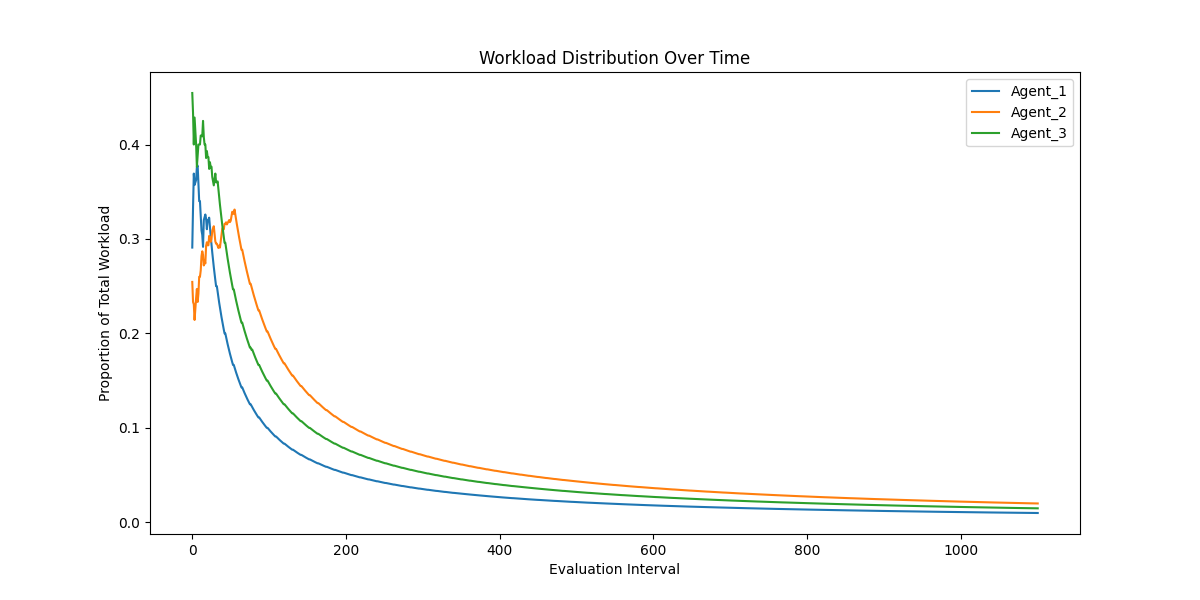
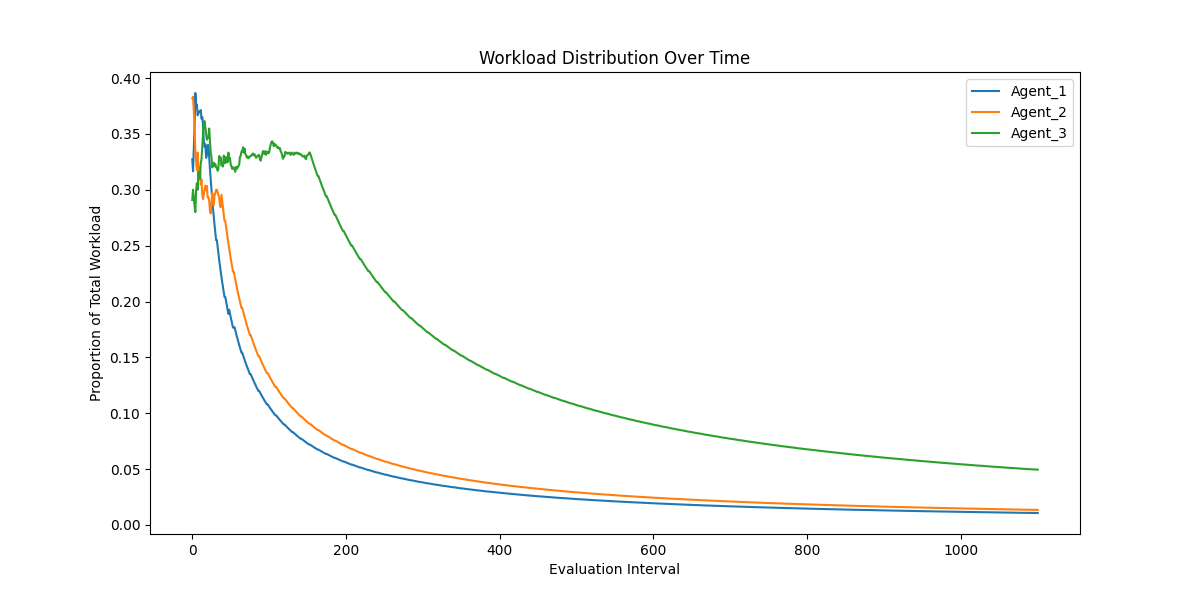
Backengine code update

diff --git a/collaborative_intelligence.py b/collaborative_intelligence.py
@@ -29,11 +29,12 @@ class Agent:
             "regression": 1,
             "clustering": 1
         }
-        self.mentor = None
-        self.mentee = None
+        self.mentors = []
+        self.mentees = []
         self.mentoring_impact = defaultdict(list)  # Track impact of mentoring
         self.ramp_up_boost = 1.0  # Temporary boost for new agents
         self.utilization_score = 1.0  # New attribute to track agent utilization
+        self.performance_trend = []  # Track agent's performance over time
 
     async def process_task(self, task: Task) -> Tuple[str, float]:
         processing_time = task.complexity * (1 / (self.reputation * self.ramp_up_boost)) * (1 / self.expertise_level[task.domain])
@@ -106,10 +107,10 @@ class Agent:
     def increase_expertise(self, domain: str):
         old_expertise = self.expertise_level[domain]
         self.expertise_level[domain] = min(10, self.expertise_level[domain] + 0.1)
-        if self.mentee:
-            mentee_old_expertise = self.mentee.expertise_level[domain]
-            mentee_expertise_gain = max(0, min(self.mentee.expertise_level[domain] + 0.05, self.expertise_level[domain]) - mentee_old_expertise)
-            self.mentee.expertise_level[domain] += mentee_expertise_gain
+        for mentee in self.mentees:
+            mentee_old_expertise = mentee.expertise_level[domain]
+            mentee_expertise_gain = max(0, min(mentee.expertise_level[domain] + 0.1, self.expertise_level[domain]) - mentee_old_expertise)
+            mentee.expertise_level[domain] += mentee_expertise_gain
             self.mentoring_impact[domain].append(mentee_expertise_gain)
         return self.expertise_level[domain] - old_expertise
 
@@ -120,6 +121,11 @@ class Agent:
         expected_tasks = total_tasks / len(self.performance_by_task_type)
         actual_tasks = self.total_tasks_processed
         self.utilization_score = min(2.0, max(0.5, actual_tasks / expected_tasks))
+
+    def update_performance_trend(self, performance: float):
+        self.performance_trend.append(performance)
+        if len(self.performance_trend) > 10:
+            self.performance_trend.pop(0)
 
 class MultiAgentSystem:
     def __init__(self, agents: List[Agent]):
@@ -135,6 +141,7 @@ class MultiAgentSystem:
         self.remove_agent_threshold = 0.4
         self.domain_performance = defaultdict(list)
         self.mentoring_reports = []
+        self.task_complexity_adjustment = 1.0
         for agent in self.agents:
             agent.creation_time = self.current_time
 
@@ -144,10 +151,11 @@ class MultiAgentSystem:
         for task in tasks:
             domain_workloads[task.domain] += 1
 
+        sorted_agents = sorted(self.agents, key=lambda a: a.utilization_score)
         for task in tasks:
-            suitable_agents = [agent for agent in self.agents if agent.specialization == task.domain]
+            suitable_agents = [agent for agent in sorted_agents if agent.specialization == task.domain]
             if not suitable_agents:
-                suitable_agents = self.agents
+                suitable_agents = sorted_agents
             chosen_agent = self._choose_agent_for_task(suitable_agents, task, agent_workloads, domain_workloads)
             await chosen_agent.task_queue.put(task)
             agent_workloads[chosen_agent] += 1
@@ -163,12 +171,12 @@ class MultiAgentSystem:
             workload_score = 1 / (1 + abs(agent_workloads[agent] - avg_workload))
             specialization_score = 2 if agent.specialization == task.domain else 1
             warm_up_score = min(1, (self.current_time - agent.creation_time) / 3)
-            integration_score = 5 if agent.total_tasks_processed < 50 else 1  # Increased boost for newer agents
+            integration_score = 5 if agent.total_tasks_processed < 50 else 1
             catch_up_score = 1 + max(0, (avg_workload - agent.total_tasks_processed) / avg_workload)
             domain_balance_score = domain_workloads[task.domain] / total_domain_workload if total_domain_workload > 0 else 1
             expertise_score = agent.expertise_level[task.domain]
             ramp_up_score = agent.ramp_up_boost
-            utilization_score = 1 / agent.utilization_score  # Favor underutilized agents
+            utilization_score = 2 - agent.utilization_score  # Favor underutilized agents more aggressively
             total_score = performance_score * workload_score * specialization_score * warm_up_score * integration_score * catch_up_score * domain_balance_score * expertise_score * ramp_up_score * utilization_score
             agent_scores.append((agent, total_score))
         chosen_agent = max(agent_scores, key=lambda x: x[1])[0]
@@ -182,7 +190,7 @@ class MultiAgentSystem:
         return sum(result for _, result in recent_tasks) / len(recent_tasks)
 
     async def process_all_tasks(self):
-        tasks = [agent.process_task(task) for agent in self.agents for task in list(agent.task_queue._queue)]
+        tasks = [agent.process_task(self._adjust_task_complexity(task)) for agent in self.agents for task in list(agent.task_queue._queue)]
         results = await asyncio.gather(*tasks)
         for agent in self.agents:
             agent.task_queue._queue.clear()
@@ -196,12 +204,17 @@ class MultiAgentSystem:
         for agent in self.agents:
             agent.update_utilization_score(total_tasks)
 
+    def _adjust_task_complexity(self, task: Task) -> Task:
+        task.complexity *= self.task_complexity_adjustment
+        return task
+
     def _update_agent_reputation(self, agent: Agent):
         recent_performance = self._calculate_agent_performance(agent)
         task_diversity = len(set(task_id for task_id, _ in agent.task_history[-20:]))
         knowledge_contribution = len(agent.knowledge_base) / 20
         agent.reputation = 0.5 * recent_performance + 0.3 * (task_diversity / 20) + 0.2 * knowledge_contribution
         agent.decay_ramp_up_boost()
+        agent.update_performance_trend(recent_performance)
         self.log.append(f"Time {self.current_time}: Updated {agent.agent_id} reputation to {agent.reputation:.2f}")
 
     def federated_learning_round(self):
@@ -262,7 +275,7 @@ class MultiAgentSystem:
         agent.creation_time = self.current_time
         agent.ramp_up_boost = 2.0  # Start with a 2x boost
         self.agents.append(agent)
-        self._assign_mentor(agent)
+        self._assign_mentors(agent)
         self.log.append(f"Time {self.current_time}: Added new agent {agent.agent_id}")
 
     def remove_agent(self, agent: Agent):
@@ -271,22 +284,22 @@ class MultiAgentSystem:
             self.agents.remove(agent)
             self.log.append(f"Time {self.current_time}: Removed agent {agent.agent_id}")
 
-    def _assign_mentor(self, new_agent: Agent):
+    def _assign_mentors(self, new_agent: Agent):
         potential_mentors = [agent for agent in self.agents if agent.specialization == new_agent.specialization and agent != new_agent]
-        if potential_mentors:
-            mentor = max(potential_mentors, key=lambda a: a.reputation)
-            new_agent.mentor = mentor
-            mentor.mentee = new_agent
-            self.log.append(f"Time {self.current_time}: Assigned {mentor.agent_id} as mentor to {new_agent.agent_id}")
+        mentors = sorted(potential_mentors, key=lambda a: a.reputation, reverse=True)[:3]  # Assign up to 3 mentors
+        for mentor in mentors:
+            new_agent.mentors.append(mentor)
+            mentor.mentees.append(new_agent)
+        self.log.append(f"Time {self.current_time}: Assigned {len(mentors)} mentors to {new_agent.agent_id}")
 
     def _remove_mentorship(self, agent: Agent):
-        if agent.mentor:
-            agent.mentor.mentee = None
-            agent.mentor = None
-        if agent.mentee:
-            agent.mentee.mentor = None
-            self._assign_mentor(agent.mentee)
-            agent.mentee = None
+        for mentor in agent.mentors:
+            mentor.mentees.remove(agent)
+        agent.mentors.clear()
+        for mentee in agent.mentees:
+            mentee.mentors.remove(agent)
+            self._assign_mentors(mentee)
+        agent.mentees.clear()
 
     def evaluate_system_performance(self):
         if not self.agents:
@@ -334,10 +347,10 @@ class MultiAgentSystem:
     def _generate_mentoring_report(self):
         report = {}
         for agent in self.agents:
-            if agent.mentee:
+            if agent.mentees:
                 mentee_improvements = {domain: sum(impacts) / len(impacts) if impacts else 0 for domain, impacts in agent.mentoring_impact.items()}
                 report[agent.agent_id] = {
-                    "mentee": agent.mentee.agent_id,
+                    "mentees": [mentee.agent_id for mentee in agent.mentees],
                     "improvements": mentee_improvements
                 }
         self.mentoring_reports.append(report)
@@ -352,15 +365,15 @@ class MultiAgentSystem:
             best_specialization = self._get_best_specialization_for_agent(agent, global_domain_performance)
             if best_specialization != agent.specialization:
                 performance_diff = agent.get_performance_difference()
-                change_probability = min(1.0, performance_diff * 30)  # Increased sensitivity even further
+                change_probability = min(1.0, performance_diff * 35 + (1 - agent.utilization_score) * 0.2)  # Consider utilization in change probability
                 if random.random() < change_probability:
                     self._remove_mentorship(agent)
                     self.log.append(f"Time {self.current_time}: {agent.agent_id} changed specialization from {agent.specialization} to {best_specialization}")
                     self.specialization_changes.append((self.current_time, agent.agent_id, agent.specialization, best_specialization))
                     agent.specialization = best_specialization
                     agent.specialization_strength = 1.0  # Reset specialization strength
-                    agent.specialization_change_cooldown = 2  # Kept the reduced cooldown period
-                    self._assign_mentor(agent)
+                    agent.specialization_change_cooldown = 1  # Further reduced cooldown period
+                    self._assign_mentors(agent)
 
     def _calculate_global_domain_performance(self):
         global_performance = defaultdict(lambda: {'success': 0, 'total': 0})
@@ -374,7 +387,7 @@ class MultiAgentSystem:
         agent_performance = {domain: perf['success'] / max(1, perf['total']) for domain, perf in agent.performance_by_task_type.items()}
         combined_performance = {}
         for domain in agent_performance:
-            combined_performance[domain] = 0.7 * agent_performance[domain] + 0.3 * global_domain_performance[domain]
+            combined_performance[domain] = 0.6 * agent_performance[domain] + 0.3 * global_domain_performance[domain] + 0.1 * (1 - agent.utilization_score)
         return max(combined_performance, key=combined_performance.get)
 
     def _update_performance_thresholds(self):
@@ -404,12 +417,14 @@ class MultiAgentSystem:
             agent.reputation *= 0.95  # Slightly reduce all agent reputations to encourage improvement
         self.add_agent_threshold *= 0.98  # Make it slightly easier to add new agents
         self.remove_agent_threshold *= 1.02  # Make it slightly harder to remove agents
+        self.task_complexity_adjustment *= 0.95  # Reduce task complexity to help agents improve
 
     def _optimize_system_parameters(self):
         for agent in self.agents:
             agent.reputation *= 1.05  # Slightly increase all agent reputations to reward good performance
         self.add_agent_threshold *= 1.02  # Make it slightly harder to add new agents
         self.remove_agent_threshold *= 0.98  # Make it slightly easier to remove agents
+        self.task_complexity_adjustment *= 1.05  # Increase task complexity to challenge agents
 
     def _identify_and_address_bottlenecks(self):
         if len(self.domain_performance["classification"]) < 5:
@@ -431,8 +446,8 @@ class MultiAgentSystem:
             # Increase training and knowledge sharing for existing agents
             for agent in domain_agents:
                 agent.expertise_level[domain] = min(10, agent.expertise_level[domain] * 1.1)
-                if agent.mentor:
-                    agent.expertise_level[domain] = min(10, (agent.expertise_level[domain] + agent.mentor.expertise_level[domain]) / 2)
+                for mentor in agent.mentors:
+                    agent.expertise_level[domain] = min(10, (agent.expertise_level[domain] + mentor.expertise_level[domain]) / 2)
 
     def _system_wide_optimization(self):
         domain_performances = defaultdict(list)
@@ -450,7 +465,22 @@ class MultiAgentSystem:
                     self.specialization_changes.append((self.current_time, agent.agent_id, agent.specialization, domain))
                     agent.specialization = domain
                     agent.specialization_strength = 1.5  # Give a boost to the new specialization
-                    self._assign_mentor(agent)
+                    self._assign_mentors(agent)
+
+    def _should_add_agent(self) -> bool:
+        if len(self.agents) >= 10:
+            return False
+        recent_performance = self.performance_history[-10:]
+        performance_trend = sum(recent_performance) / len(recent_performance)
+        domain_needs = any(sum(perf[-5:]) / 5 < 0.6 for perf in self.domain_performance.values())
+        return performance_trend > self.add_agent_threshold or domain_needs
+
+    def _should_remove_agent(self) -> bool:
+        if len(self.agents) <= 3:
+            return False
+        recent_performance = self.performance_history[-10:]
+        performance_trend = sum(recent_performance) / len(recent_performance)
+        return performance_trend < self.remove_agent_threshold
 
     async def run_simulation(self, num_steps: int):
         for _ in range(num_steps):
@@ -468,10 +498,10 @@ class MultiAgentSystem:
                 performance = self.evaluate_system_performance()
                 self._update_performance_thresholds()
                 self._long_term_performance_analysis()
-                if performance < self.remove_agent_threshold and len(self.agents) > 3:
+                if self._should_remove_agent():
                     worst_agent = min(self.agents, key=lambda a: a.reputation)
                     self.remove_agent(worst_agent)
-                elif performance > self.add_agent_threshold and len(self.agents) < 10:
+                elif self._should_add_agent():
                     new_agent = Agent(f"Agent_{len(self.agents)+1}", random.choice(['classification', 'regression', 'clustering']), random.choice(['classification', 'regression', 'clustering']))
                     self.add_agent(new_agent)
 

diff --git a/test_enhanced_collaborative_intelligence.py b/test_enhanced_collaborative_intelligence.py
@@ -44,10 +44,11 @@ async def test_enhanced_collaborative_intelligence():
         print(f"  Specialization strength: {agent.specialization_strength:.2f}")
         print(f"  Expertise levels: {agent.expertise_level}")
         print(f"  Ramp-up boost: {agent.ramp_up_boost:.2f}")
-        if agent.mentor:
-            print(f"  Mentor: {agent.mentor.agent_id}")
-        if agent.mentee:
-            print(f"  Mentee: {agent.mentee.agent_id}")
+        print(f"  Utilization score: {agent.utilization_score:.2f}")
+        if agent.mentors:
+            print(f"  Mentors: {', '.join([mentor.agent_id for mentor in agent.mentors])}")
+        if agent.mentees:
+            print(f"  Mentees: {', '.join([mentee.agent_id for mentee in agent.mentees])}")
 
     print("\n4. Knowledge Sharing Statistics:")
     for agent in mas.agents:
@@ -131,13 +132,16 @@ async def test_enhanced_collaborative_intelligence():
     for i, report in enumerate(mentoring_reports[-5:], 1):
         print(f"Report {i}:")
         for mentor, data in report.items():
-            print(f"  Mentor {mentor} - Mentee {data['mentee']}:")
+            print(f"  Mentor {mentor} - Mentees: {', '.join(data['mentees'])}")
             for domain, improvement in data['improvements'].items():
                 print(f"    {domain}: {improvement:.4f}")
 
     print("\n14. Final Performance Thresholds:")
     print(f"Add agent threshold: {mas.add_agent_threshold:.2f}")
     print(f"Remove agent threshold: {mas.remove_agent_threshold:.2f}")
+
+    print("\n15. Task Complexity Adjustment:")
+    print(f"Final task complexity adjustment: {mas.task_complexity_adjustment:.2f}")
 
     print("\nEnhanced Collaborative Intelligence test completed successfully!")
 
